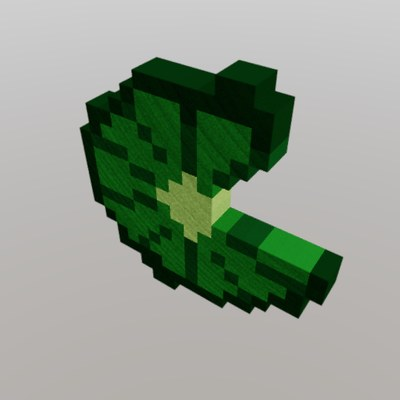
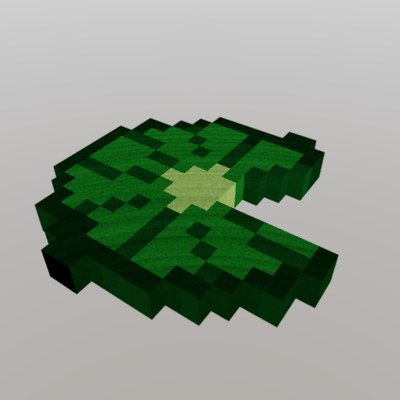
Fix Godot bridge textures and lay the lily pad example flat
In the editor, GLTFDocument extracted the palette texture as a file next
to the glb, which fails outside res://, so the bridge preview and editor
bakes lost their texture. The plugin now embeds images. The parameter
group also gets its prefix, so the inspector no longer nests a second
heading of the same name.

The lily pad example wrote its disc into the XZ plane and stood on its
edge; .vox has Z up, so it now fills XY. examples/lily_pad.vox and the
README image are regenerated.

Changed region(s): [[0.09, 0.12, 0.87, 0.81]]

diff --git a/CHANGELOG.md b/CHANGELOG.md
@@ -1,5 +1,18 @@
 # Changelog
 
+## Unreleased
+
+### Fixed
+
+- The Godot plugin embeds the palette texture when it imports a model. In the
+  editor it used to extract the texture as a file beside the glb, which failed
+  outside `res://`, so the preview and **Bake standalone scene** came out
+  untextured.
+- The Godot inspector shows a script's parameters under one object heading
+  instead of the same heading twice.
+- `examples/lily_pad.rhai` lays the lily pad flat. It used to stand on its
+  edge, because `.vox` has Z up.
+
 ## 0.2.0
 
 Froxel models can now live inside Godot and Blender. Open a scripted `.vox`
